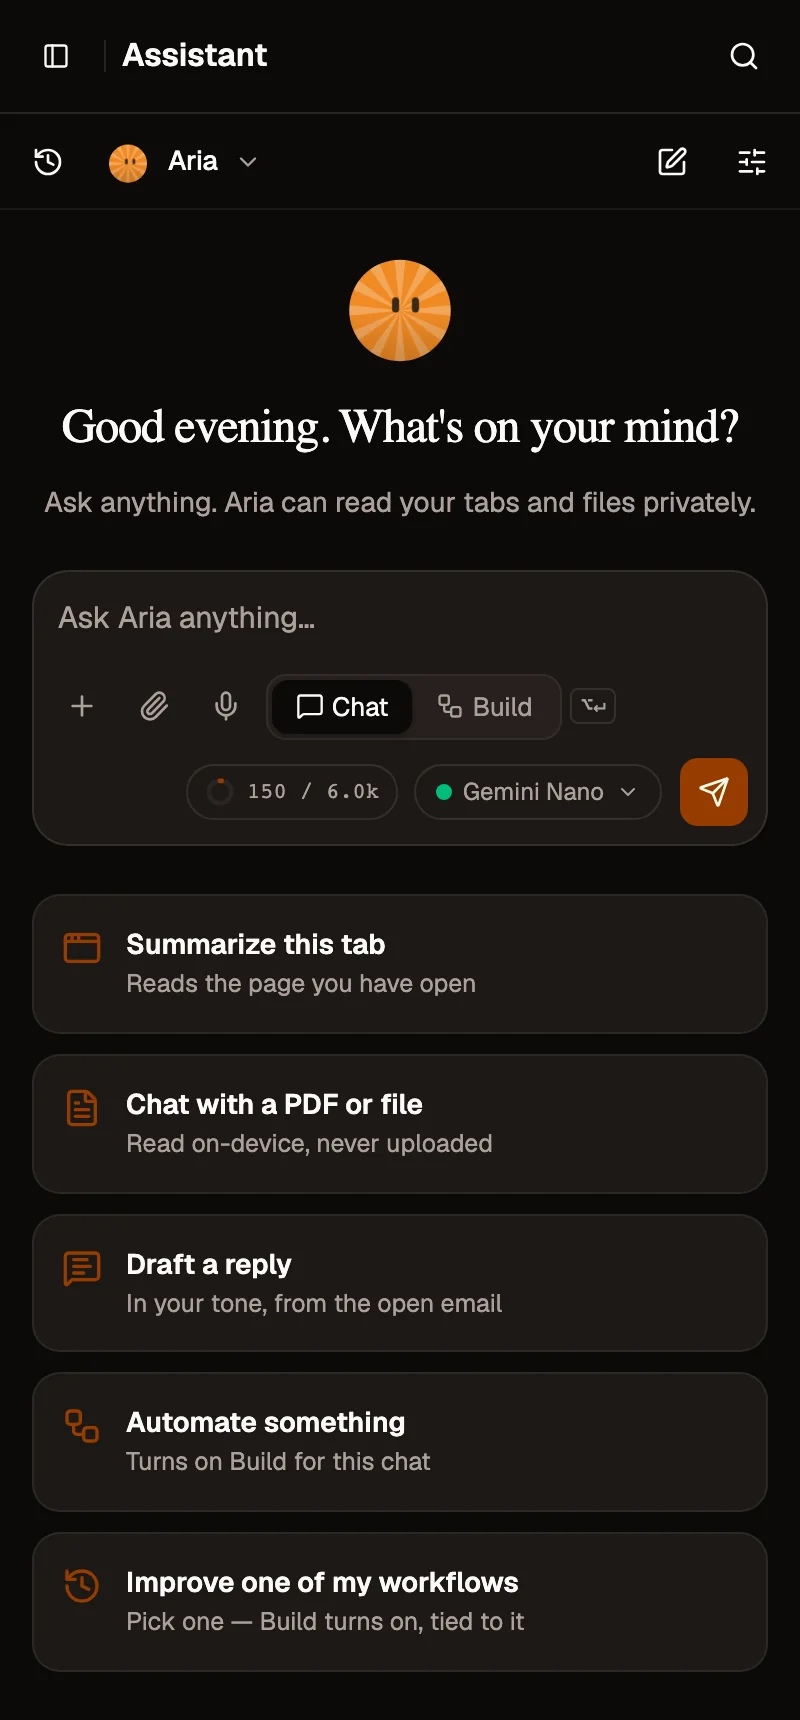
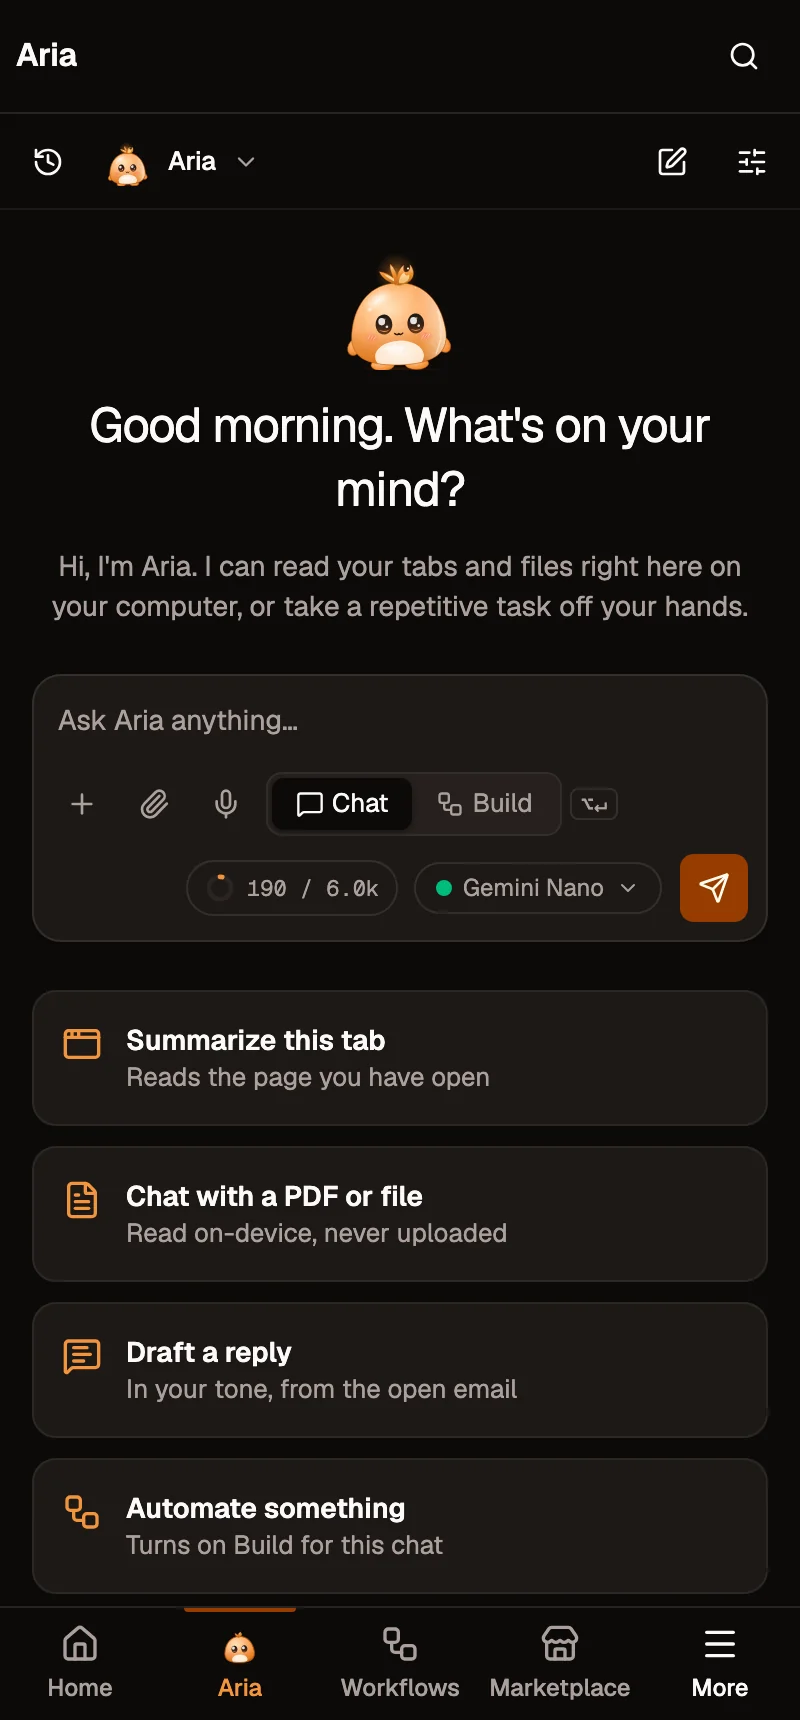
docs(app): Home, side panel, help, notifications, create, export/import, site access, data store and AI safety for 1.0
Home (Today, Discover, insights recap), the side panel (bottom bar, inbox,
full tab, drafts), Help sheet and feedback, the inbox, the create wizard
and drafts/conflicts, copy-paste and import errors, site access wording
and Undo, stored-value Undo and polling positions; action approval
policies and waiting runs, taint in browser control, plan card and Fix
with Aria; evaluation concept links to Test runs. Re-captured side-panel.

diff --git a/scripts/capture/shots/app.ts b/scripts/capture/shots/app.ts
@@ -7,12 +7,13 @@ export const shots: ShotDef[] = [
 		page: 'app/side-panel',
 		route: '#/app/assistant',
 		viewport: { width: 400, height: 860 },
-		alt: "The AWFlow app at side-panel width (400 px) on the Assistant page: a compact header with the sidebar button and search, a row with chat history, the Aria agent switcher, new chat and chat settings, the greeting, the message box with Chat and Build modes, context meter and model picker, and suggestion cards stacked in one column.",
+		alt: "The AWFlow app at side-panel width (400 px) on the Aria page: a header with the page name and search, a row with chat history, the Aria switcher, new chat and chat settings, Aria's greeting, the message box with Chat and Build modes, context meter and model picker, suggestion cards in one column, and the bottom bar with Home, Aria, Workflows, Marketplace and More.",
 		hotspots: [
-			{ id: 'sidebar-button', label: 'Sidebar button: opens the full navigation', locate: btn('Toggle sidebar') },
+			{ id: 'search', label: 'Search and commands', locate: btn('Search or run a command') },
 			{ id: 'message-box', label: 'Message box: ask Aria anything', locate: (p) => p.getByRole('textbox').first() },
 			{ id: 'chat-build-mode', label: 'Chat or Build mode', locate: btn('Build') },
-			{ id: 'model-picker', label: 'Model picker', locate: btn('Gemini Nano') }
+			{ id: 'model-picker', label: 'Model picker', locate: btn('Gemini Nano') },
+			{ id: 'bottom-bar', label: 'Bottom bar: Home, Aria, Workflows, Marketplace, More', locate: (p) => p.getByRole('link', { name: 'Workflows' }).last() }
 		],
 		prepare: async (s) => {
 			await s.assistant();
